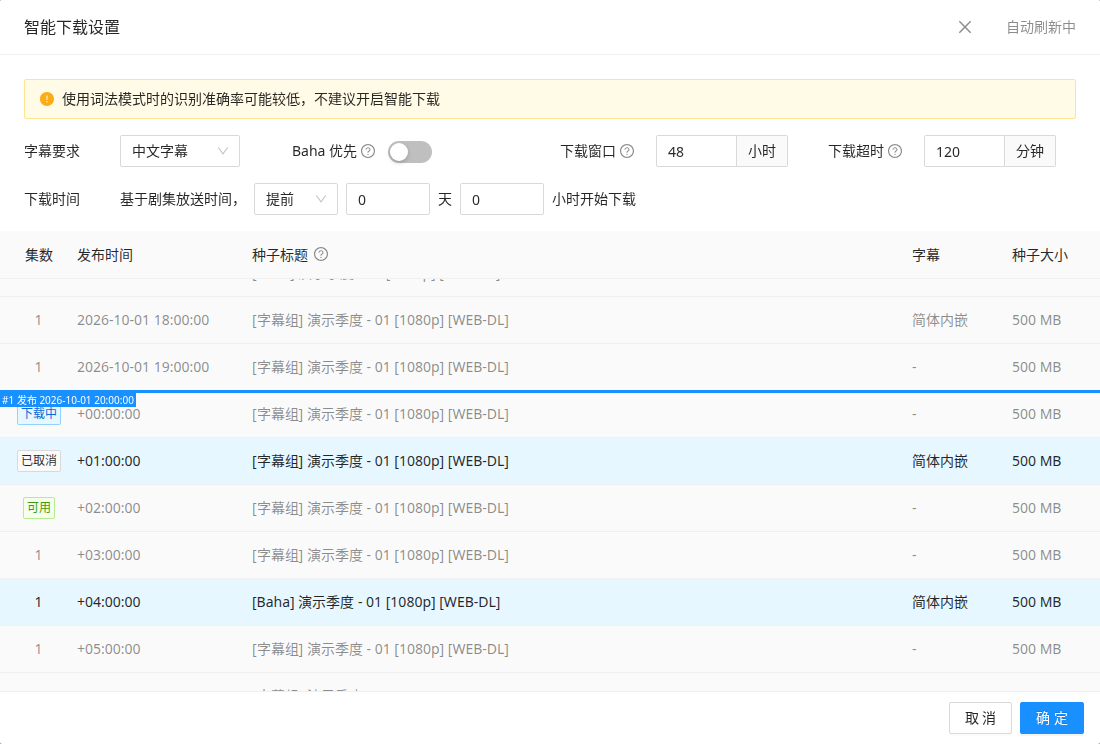
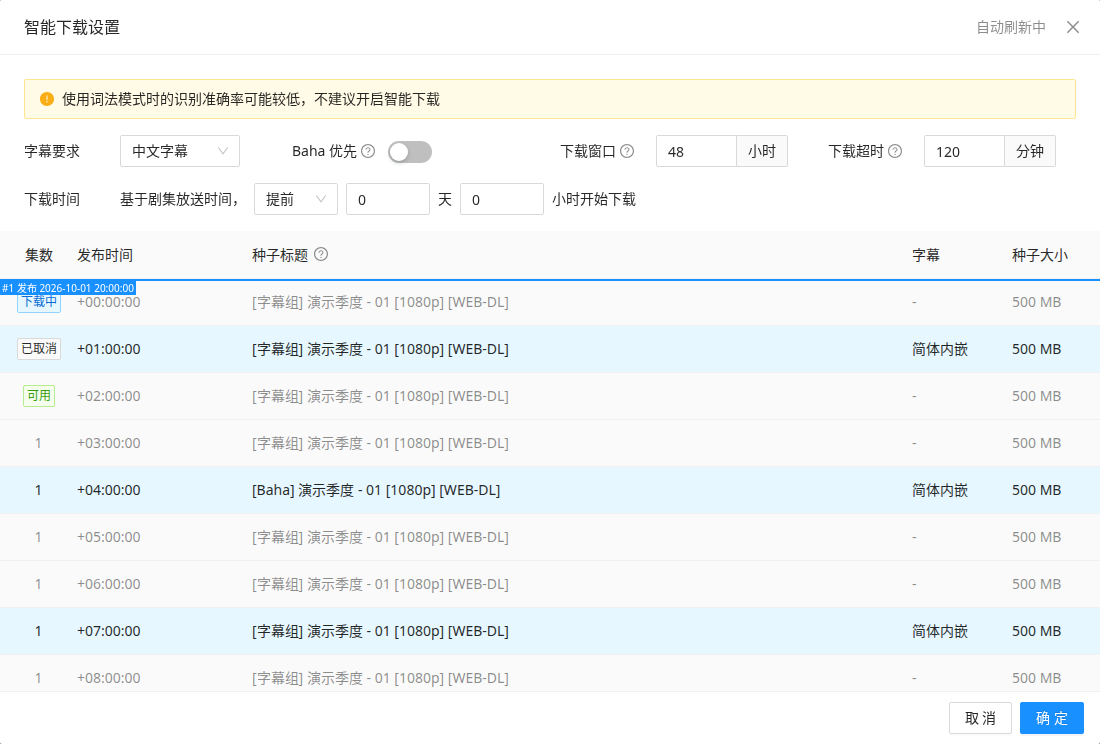
fix(admin): 将自动刷新提示移到关闭按钮左侧

diff --git a/apps/admin/src/components/TaskDialog/index.module.less b/apps/admin/src/components/TaskDialog/index.module.less
@@ -53,13 +53,10 @@
   .title {
     padding-right: 140px;
   }
-  :global(.ant-modal-close) {
-    right: 108px;
-  }
 }
 .closeHint {
   position: absolute;
-  right: 24px;
+  right: @modal-header-close-size;
   top: 0;
   height: @modal-header-close-size;
   display: flex;
